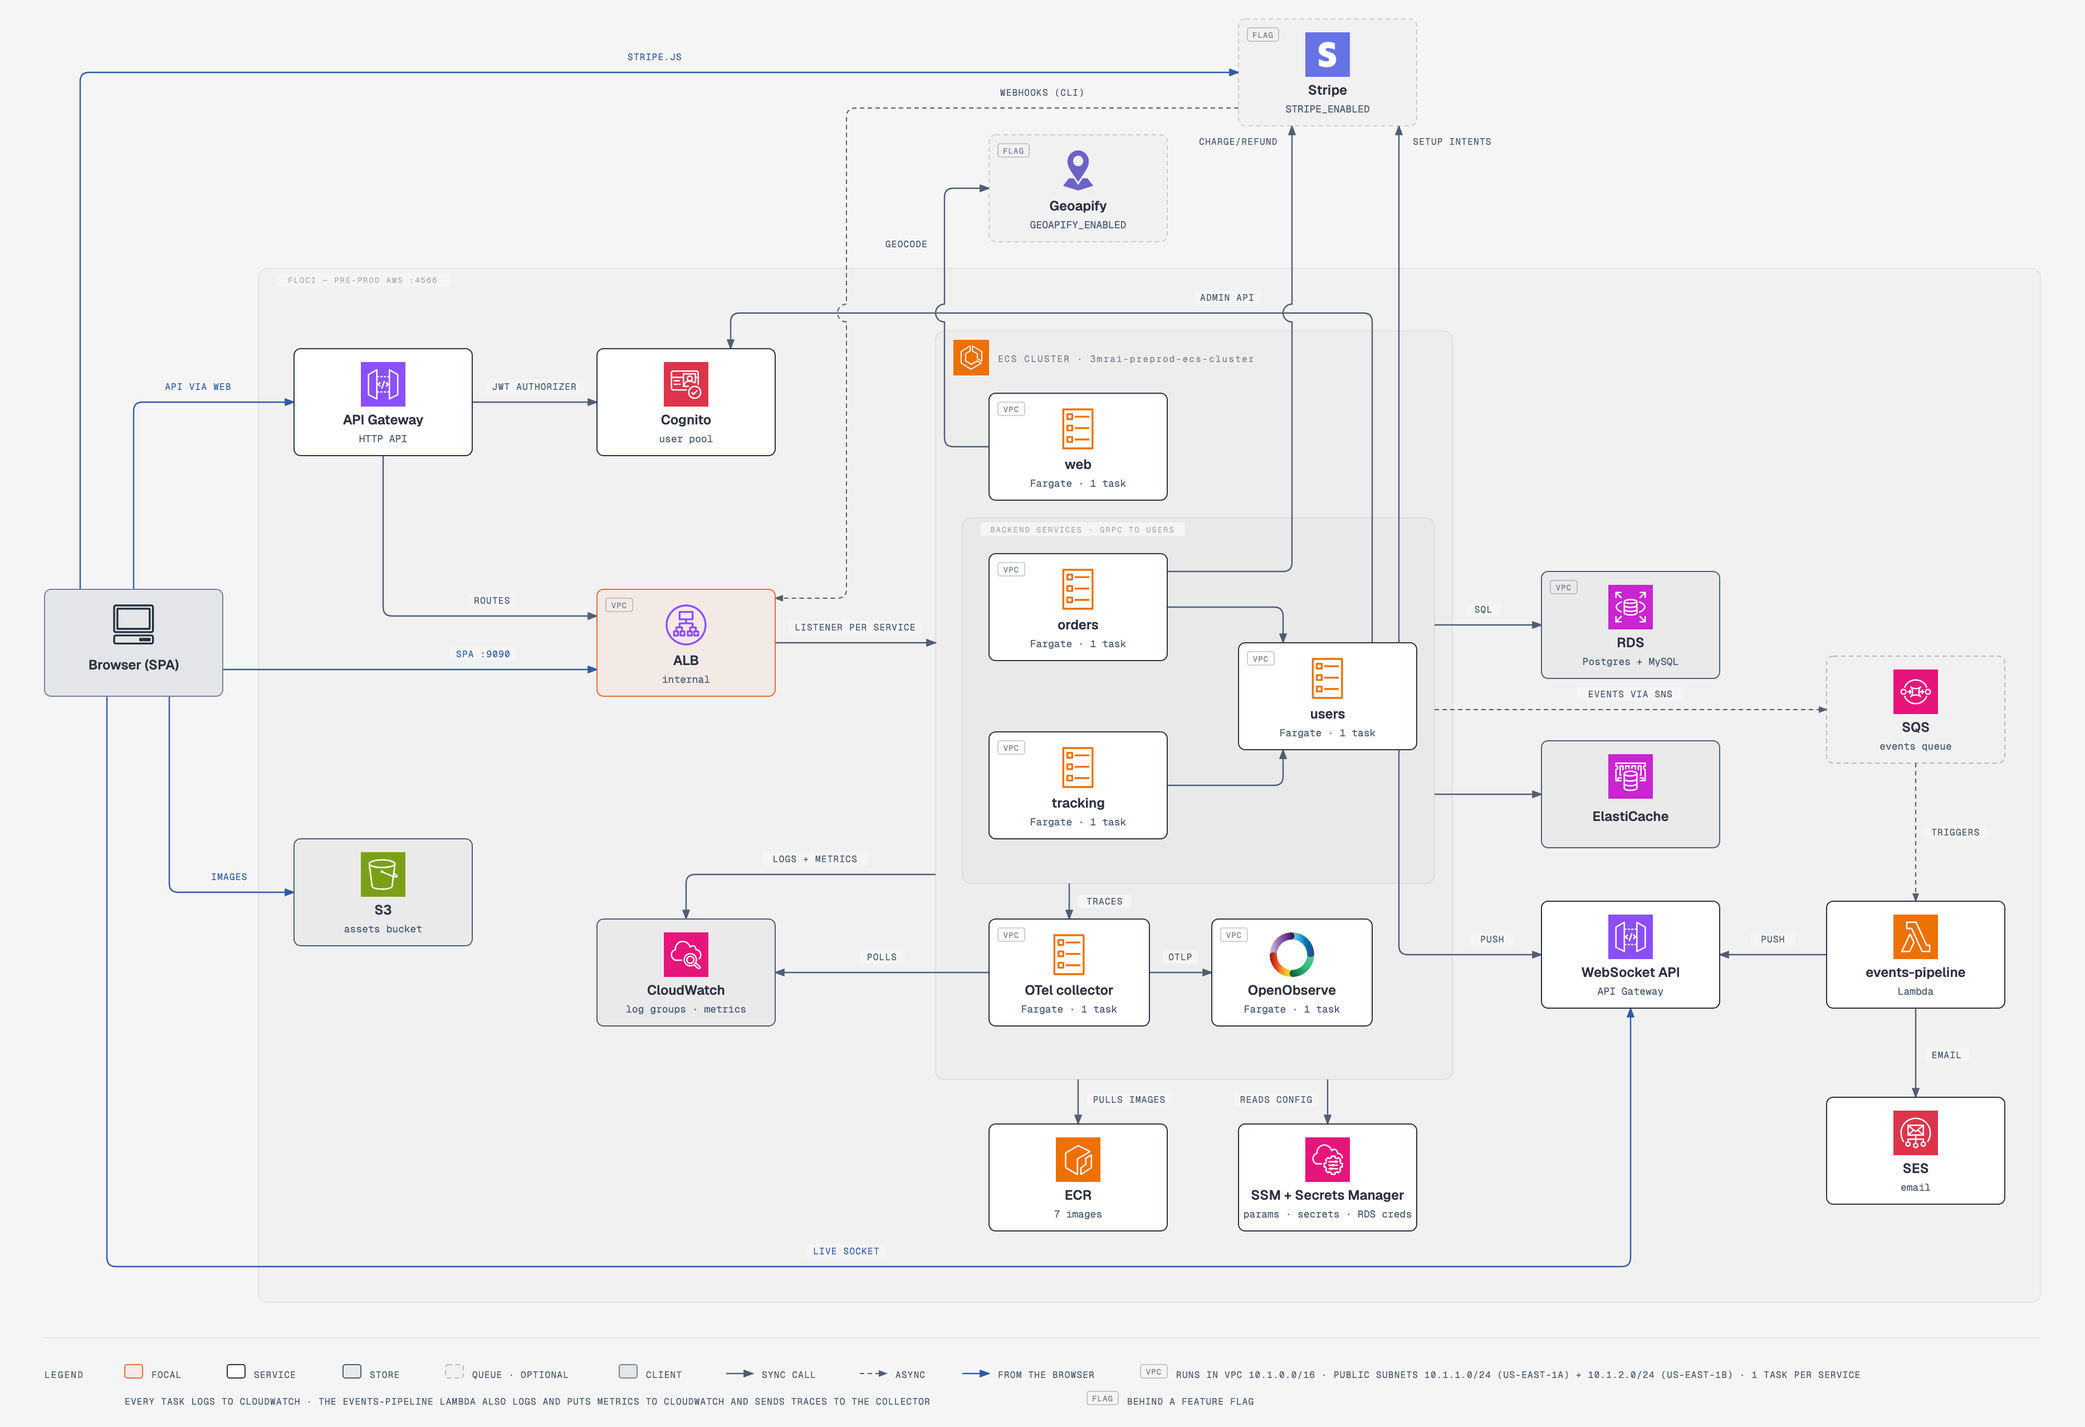
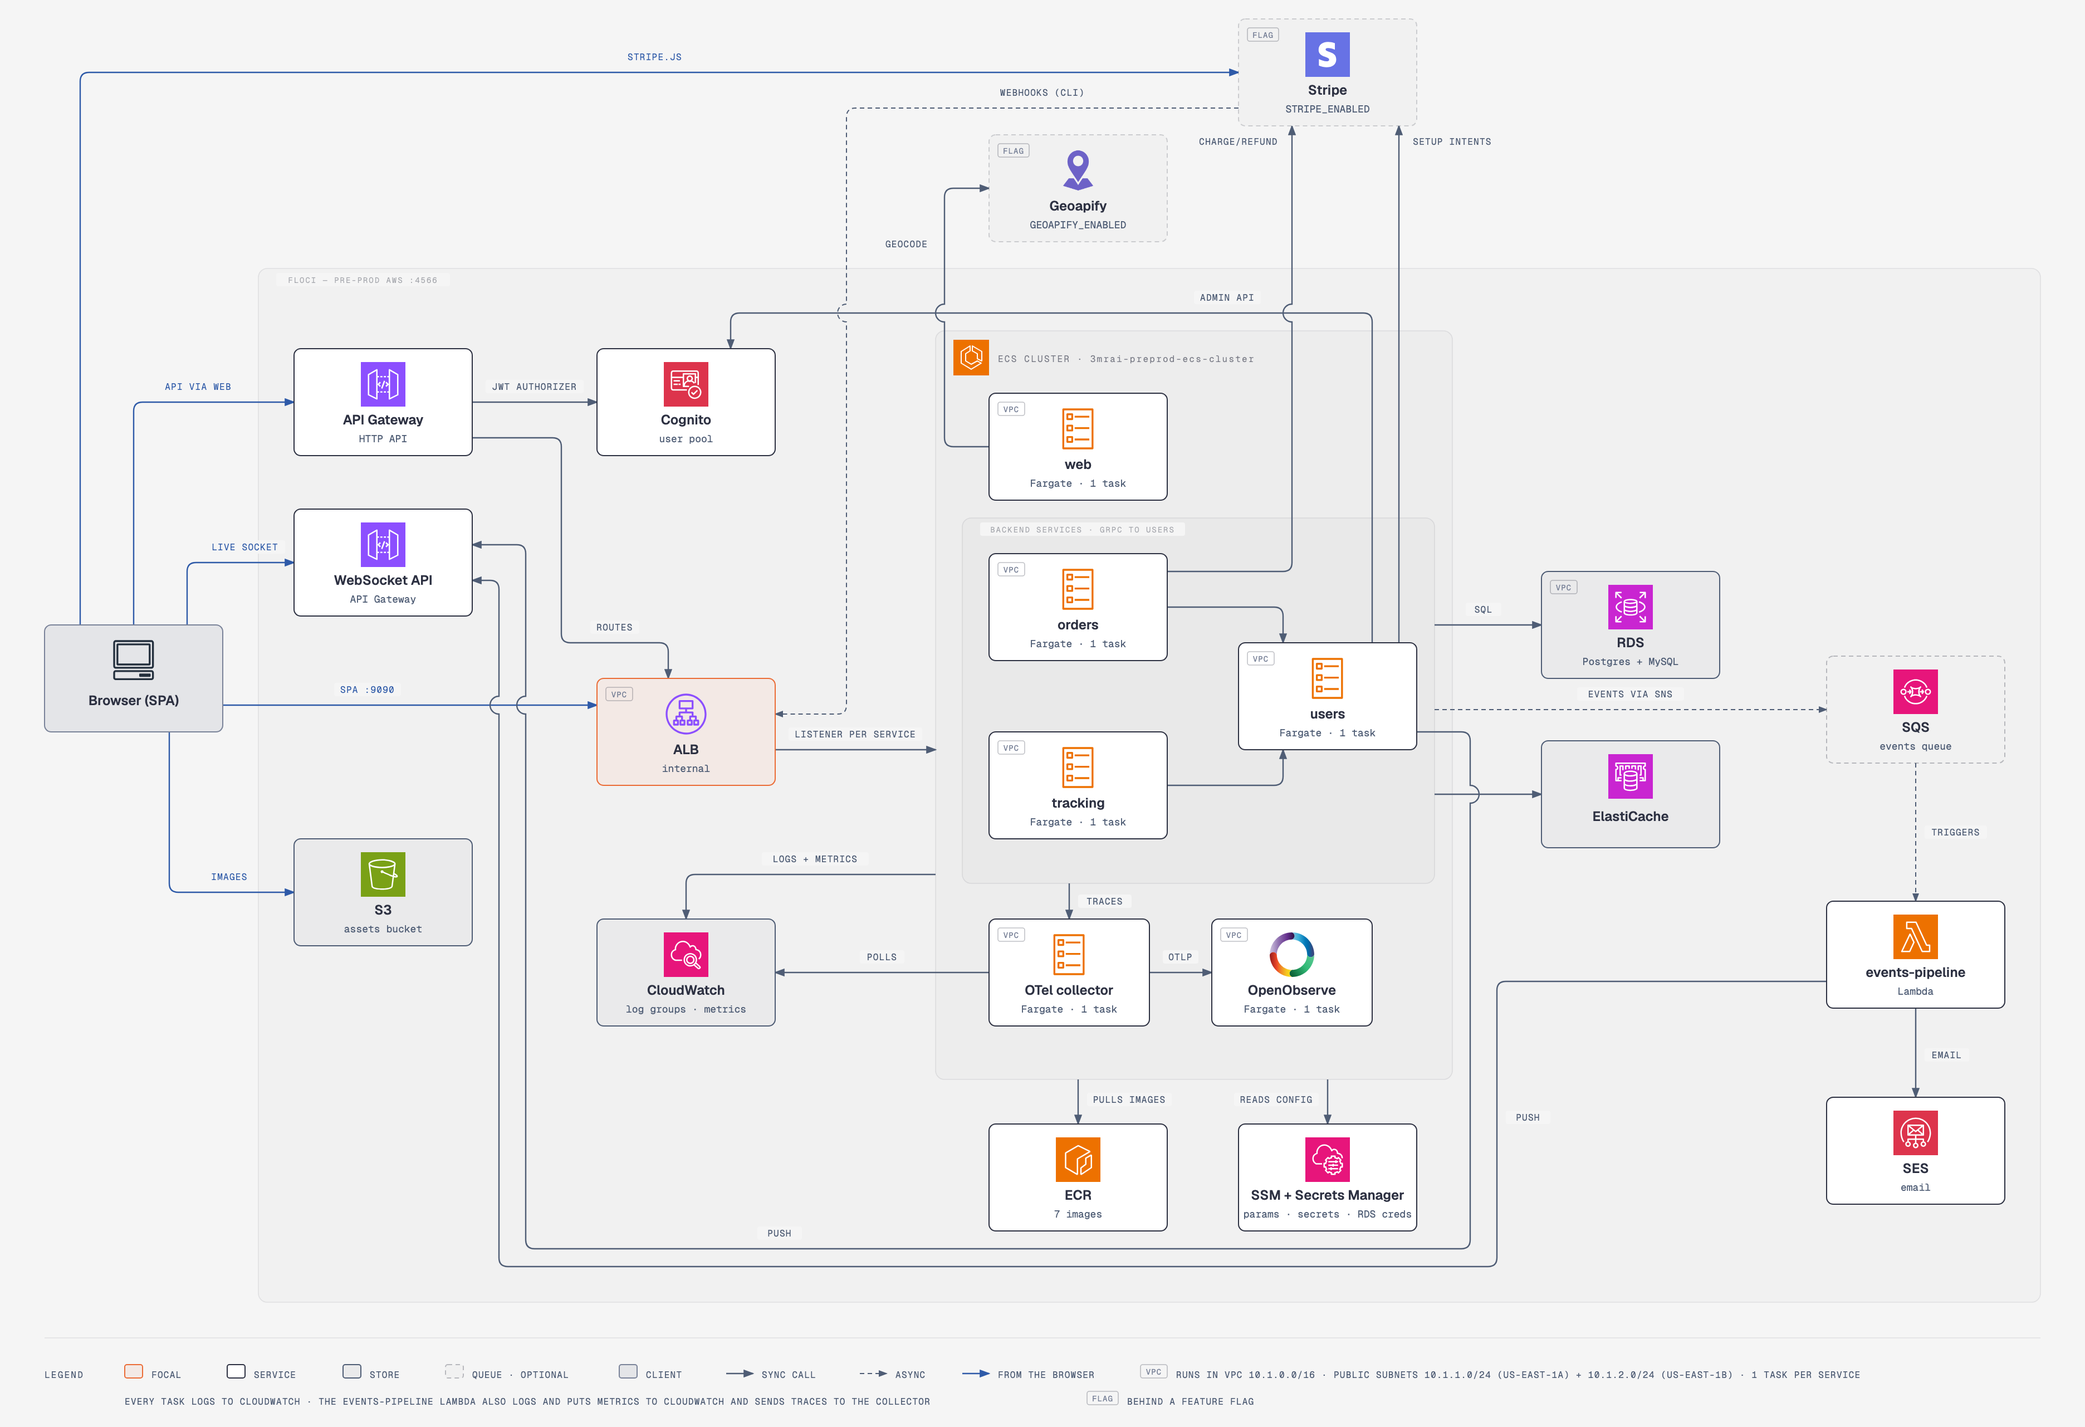
feat(diagrams): pair the WebSocket API with the HTTP API Gateway in the pre-prod view
Spec: docs/superpowers/specs/2026-10-13-diagram-design-migration-design.md

diff --git a/diagrams/src/architecture/architecture-preprod.html b/diagrams/src/architecture/architecture-preprod.html
@@ -85,12 +85,12 @@
       <rect x="880" y="468" width="184" height="12" rx="2" fill="#f5f5f5"/>
       <text x="972" y="477" fill="rgba(45,49,66,0.40)" font-size="7" font-family="'Geist Mono', monospace" text-anchor="middle" letter-spacing="0.14em">BACKEND SERVICES · GRPC TO USERS</text>
       <!-- Connectors (before nodes) -->
-      <path d="M 120,528 V 368 Q 120,360 128,360 H 264" fill="none" stroke="#2e5aa8" stroke-width="1.2" marker-end="url(#arrow-link)"/>
-      <path d="M 200,600 H 536" fill="none" stroke="#2e5aa8" stroke-width="1.2" marker-end="url(#arrow-link)"/>
-      <path d="M 152,624 V 792 Q 152,800 160,800 H 264" fill="none" stroke="#2e5aa8" stroke-width="1.2" marker-end="url(#arrow-link)"/>
+      <path d="M 120,560 V 368 Q 120,360 128,360 H 264" fill="none" stroke="#2e5aa8" stroke-width="1.2" marker-end="url(#arrow-link)"/>
+      <path d="M 200,632 H 536" fill="none" stroke="#2e5aa8" stroke-width="1.2" marker-end="url(#arrow-link)"/>
+      <path d="M 152,656 V 792 Q 152,800 160,800 H 264" fill="none" stroke="#2e5aa8" stroke-width="1.2" marker-end="url(#arrow-link)"/>
       <path d="M 424,360 H 536" fill="none" stroke="#4f5d75" stroke-width="1.2" marker-end="url(#arrow)"/>
-      <path d="M 344,408 V 544 Q 344,552 352,552 H 536" fill="none" stroke="#4f5d75" stroke-width="1.2" marker-end="url(#arrow)"/>
-      <path d="M 696,576 H 840" fill="none" stroke="#4f5d75" stroke-width="1.2" marker-end="url(#arrow)"/>
+      <path d="M 424,392 H 496 Q 504,392 504,400 V 568 Q 504,576 512,576 H 592 Q 600,576 600,584 V 608" fill="none" stroke="#4f5d75" stroke-width="1.2" marker-end="url(#arrow)"/>
+      <path d="M 696,672 H 840" fill="none" stroke="#4f5d75" stroke-width="1.2" marker-end="url(#arrow)"/>
       <path d="M 1048,544 H 1144 Q 1152,544 1152,552 V 576" fill="none" stroke="#4f5d75" stroke-width="1.2" marker-end="url(#arrow)"/>
       <path d="M 1048,704 H 1144 Q 1152,704 1152,696 V 672" fill="none" stroke="#4f5d75" stroke-width="1.2" marker-end="url(#arrow)"/>
       <path d="M 1232,576 V 288 Q 1232,280 1224,280 H 664 Q 656,280 656,288 V 312" fill="none" stroke="#4f5d75" stroke-width="1.2" marker-end="url(#arrow)"/>
@@ -98,34 +98,34 @@
       <path d="M 1288,712 H 1384" fill="none" stroke="#4f5d75" stroke-width="1.2" marker-end="url(#arrow)"/>
       <path d="M 968,968 V 1008" fill="none" stroke="#4f5d75" stroke-width="1.2" marker-end="url(#arrow)"/>
       <path d="M 1192,968 V 1008" fill="none" stroke="#4f5d75" stroke-width="1.2" marker-end="url(#arrow)"/>
-      <path d="M 96,624 V 1128 Q 96,1136 104,1136 H 1456 Q 1464,1136 1464,1128 V 904" fill="none" stroke="#2e5aa8" stroke-width="1.2" marker-end="url(#arrow-link)"/>
-      <path d="M 1256,672 V 848 Q 1256,856 1264,856 H 1384" fill="none" stroke="#4f5d75" stroke-width="1.2" marker-end="url(#arrow)"/>
+      <path d="M 168,560 V 512 Q 168,504 176,504 H 264" fill="none" stroke="#2e5aa8" stroke-width="1.2" marker-end="url(#arrow-link)"/>
+      <path d="M 1272,656 H 1312 Q 1320,656 1320,664 V 704 a 8,8 0 0,1 0,16 V 1112 Q 1320,1120 1312,1120 H 480 Q 472,1120 472,1112 V 640 a 8,8 0 0,1 0,-16 V 496 Q 472,488 464,488 H 424" fill="none" stroke="#4f5d75" stroke-width="1.2" marker-end="url(#arrow)"/>
       <path d="M 1288,636 H 1640" fill="none" stroke="#4f5d75" stroke-width="1" stroke-dasharray="4,3" marker-end="url(#arrow)"/>
       <path d="M 1720,684 V 808" fill="none" stroke="#4f5d75" stroke-width="1" stroke-dasharray="4,3" marker-end="url(#arrow)"/>
-      <path d="M 1640,856 H 1544" fill="none" stroke="#4f5d75" stroke-width="1.2" marker-end="url(#arrow)"/>
+      <path d="M 1640,880 H 1352 Q 1344,880 1344,888 V 1128 Q 1344,1136 1336,1136 H 456 Q 448,1136 448,1128 V 640 a 8,8 0 0,1 0,-16 V 528 Q 448,520 440,520 H 424" fill="none" stroke="#4f5d75" stroke-width="1.2" marker-end="url(#arrow)"/>
       <path d="M 1720,904 V 984" fill="none" stroke="#4f5d75" stroke-width="1.2" marker-end="url(#arrow)"/>
       <path d="M 840,784 H 624 Q 616,784 616,792 V 824" fill="none" stroke="#4f5d75" stroke-width="1.2" marker-end="url(#arrow)"/>
       <path d="M 888,872 H 696" fill="none" stroke="#4f5d75" stroke-width="1.2" marker-end="url(#arrow)"/>
       <path d="M 960,792 V 824" fill="none" stroke="#4f5d75" stroke-width="1.2" marker-end="url(#arrow)"/>
       <path d="M 1032,872 H 1088" fill="none" stroke="#4f5d75" stroke-width="1.2" marker-end="url(#arrow)"/>
-      <path d="M 72,528 V 72 Q 72,64 80,64 H 1112" fill="none" stroke="#2e5aa8" stroke-width="1.2" marker-end="url(#arrow-link)"/>
+      <path d="M 72,560 V 72 Q 72,64 80,64 H 1112" fill="none" stroke="#2e5aa8" stroke-width="1.2" marker-end="url(#arrow-link)"/>
       <path d="M 1256,576 V 112" fill="none" stroke="#4f5d75" stroke-width="1.2" marker-end="url(#arrow)"/>
       <path d="M 1048,512 H 1152 Q 1160,512 1160,504 V 288 a 8,8 0 0,1 0,-16 V 112" fill="none" stroke="#4f5d75" stroke-width="1.2" marker-end="url(#arrow)"/>
-      <path d="M 1112,96 H 768 Q 760,96 760,104 V 272 a 8,8 0 0,0 0,16 V 528 Q 760,536 752,536 H 696" fill="none" stroke="#4f5d75" stroke-width="1" stroke-dasharray="4,3" marker-end="url(#arrow)"/>
+      <path d="M 1112,96 H 768 Q 760,96 760,104 V 272 a 8,8 0 0,0 0,16 V 632 Q 760,640 752,640 H 696" fill="none" stroke="#4f5d75" stroke-width="1" stroke-dasharray="4,3" marker-end="url(#arrow)"/>
       <path d="M 888,400 H 856 Q 848,400 848,392 V 288 a 8,8 0 0,1 0,-16 V 176 Q 848,168 856,168 H 888" fill="none" stroke="#4f5d75" stroke-width="1.2" marker-end="url(#arrow)"/>
       <!-- Connector labels -->
       <rect x="144" y="340" width="68" height="12" rx="2" fill="#f5f5f5"/>
       <text x="178" y="349" fill="#2e5aa8" font-size="8" font-family="'Geist Mono', monospace" text-anchor="middle" letter-spacing="0.08em">API VIA WEB</text>
-      <rect x="404" y="580" width="60" height="12" rx="2" fill="#f5f5f5"/>
-      <text x="434" y="589" fill="#2e5aa8" font-size="8" font-family="'Geist Mono', monospace" text-anchor="middle" letter-spacing="0.08em">SPA :9090</text>
+      <rect x="300" y="612" width="60" height="12" rx="2" fill="#f5f5f5"/>
+      <text x="330" y="621" fill="#2e5aa8" font-size="8" font-family="'Geist Mono', monospace" text-anchor="middle" letter-spacing="0.08em">SPA :9090</text>
       <rect x="184" y="780" width="44" height="12" rx="2" fill="#f5f5f5"/>
       <text x="206" y="789" fill="#2e5aa8" font-size="8" font-family="'Geist Mono', monospace" text-anchor="middle" letter-spacing="0.08em">IMAGES</text>
       <rect x="436" y="340" width="88" height="12" rx="2" fill="#f5f5f5"/>
       <text x="480" y="349" fill="#4f5d75" font-size="8" font-family="'Geist Mono', monospace" text-anchor="middle" letter-spacing="0.08em">JWT AUTHORIZER</text>
-      <rect x="420" y="532" width="44" height="12" rx="2" fill="#f5f5f5"/>
-      <text x="442" y="541" fill="#4f5d75" font-size="8" font-family="'Geist Mono', monospace" text-anchor="middle" letter-spacing="0.08em">ROUTES</text>
-      <rect x="708" y="556" width="120" height="12" rx="2" fill="#f5f5f5"/>
-      <text x="768" y="565" fill="#4f5d75" font-size="8" font-family="'Geist Mono', monospace" text-anchor="middle" letter-spacing="0.08em">LISTENER PER SERVICE</text>
+      <rect x="530" y="556" width="44" height="12" rx="2" fill="#f5f5f5"/>
+      <text x="552" y="565" fill="#4f5d75" font-size="8" font-family="'Geist Mono', monospace" text-anchor="middle" letter-spacing="0.08em">ROUTES</text>
+      <rect x="708" y="652" width="120" height="12" rx="2" fill="#f5f5f5"/>
+      <text x="768" y="661" fill="#4f5d75" font-size="8" font-family="'Geist Mono', monospace" text-anchor="middle" letter-spacing="0.08em">LISTENER PER SERVICE</text>
       <rect x="1072" y="260" width="60" height="12" rx="2" fill="#f5f5f5"/>
       <text x="1102" y="269" fill="#4f5d75" font-size="8" font-family="'Geist Mono', monospace" text-anchor="middle" letter-spacing="0.08em">ADMIN API</text>
       <rect x="1316" y="540" width="32" height="12" rx="2" fill="#f5f5f5"/>
@@ -134,16 +134,16 @@
       <text x="1014" y="989" fill="#4f5d75" font-size="8" font-family="'Geist Mono', monospace" text-anchor="middle" letter-spacing="0.08em">PULLS IMAGES</text>
       <rect x="1108" y="980" width="76" height="12" rx="2" fill="#f5f5f5"/>
       <text x="1146" y="989" fill="#4f5d75" font-size="8" font-family="'Geist Mono', monospace" text-anchor="middle" letter-spacing="0.08em">READS CONFIG</text>
-      <rect x="724" y="1116" width="72" height="12" rx="2" fill="#f5f5f5"/>
-      <text x="760" y="1125" fill="#2e5aa8" font-size="8" font-family="'Geist Mono', monospace" text-anchor="middle" letter-spacing="0.08em">LIVE SOCKET</text>
-      <rect x="1320" y="836" width="40" height="12" rx="2" fill="#f5f5f5"/>
-      <text x="1340" y="845" fill="#4f5d75" font-size="8" font-family="'Geist Mono', monospace" text-anchor="middle" letter-spacing="0.08em">PUSH</text>
+      <rect x="184" y="484" width="72" height="12" rx="2" fill="#f5f5f5"/>
+      <text x="220" y="493" fill="#2e5aa8" font-size="8" font-family="'Geist Mono', monospace" text-anchor="middle" letter-spacing="0.08em">LIVE SOCKET</text>
+      <rect x="680" y="1100" width="40" height="12" rx="2" fill="#f5f5f5"/>
+      <text x="700" y="1109" fill="#4f5d75" font-size="8" font-family="'Geist Mono', monospace" text-anchor="middle" letter-spacing="0.08em">PUSH</text>
       <rect x="1416" y="616" width="96" height="12" rx="2" fill="#f5f5f5"/>
       <text x="1464" y="625" fill="#4f5d75" font-size="8" font-family="'Geist Mono', monospace" text-anchor="middle" letter-spacing="0.08em">EVENTS VIA SNS</text>
       <rect x="1728" y="740" width="56" height="12" rx="2" fill="#f5f5f5"/>
       <text x="1756" y="749" fill="#4f5d75" font-size="8" font-family="'Geist Mono', monospace" text-anchor="middle" letter-spacing="0.08em">TRIGGERS</text>
-      <rect x="1572" y="836" width="40" height="12" rx="2" fill="#f5f5f5"/>
-      <text x="1592" y="845" fill="#4f5d75" font-size="8" font-family="'Geist Mono', monospace" text-anchor="middle" letter-spacing="0.08em">PUSH</text>
+      <rect x="1352" y="996" width="40" height="12" rx="2" fill="#f5f5f5"/>
+      <text x="1372" y="1005" fill="#4f5d75" font-size="8" font-family="'Geist Mono', monospace" text-anchor="middle" letter-spacing="0.08em">PUSH</text>
       <rect x="1728" y="940" width="40" height="12" rx="2" fill="#f5f5f5"/>
       <text x="1748" y="949" fill="#4f5d75" font-size="8" font-family="'Geist Mono', monospace" text-anchor="middle" letter-spacing="0.08em">EMAIL</text>
       <rect x="684" y="764" width="96" height="12" rx="2" fill="#f5f5f5"/>
@@ -181,10 +181,10 @@
       <text x="968" y="188" fill="#2d3142" font-size="12" font-weight="600" font-family="'Geist', sans-serif" text-anchor="middle">Geoapify</text>
       <text x="968" y="204" fill="#4f5d75" font-size="9" font-family="'Geist Mono', monospace" text-anchor="middle">GEOAPIFY_ENABLED</text>
       <!-- Node: Browser (SPA) -->
-      <rect x="40" y="528" width="160" height="96" rx="6" fill="#f5f5f5"/>
-      <rect x="40" y="528" width="160" height="96" rx="6" fill="rgba(79,93,117,0.10)" stroke="#7a8399" stroke-width="1"/>
-      <image href="https://cdn.jsdelivr.net/npm/aws-icons@3.2.0/icons/resource/Client.svg" x="100" y="540" width="40" height="40"/>
-      <text x="120" y="600" fill="#2d3142" font-size="12" font-weight="600" font-family="'Geist', sans-serif" text-anchor="middle">Browser (SPA)</text>
+      <rect x="40" y="560" width="160" height="96" rx="6" fill="#f5f5f5"/>
+      <rect x="40" y="560" width="160" height="96" rx="6" fill="rgba(79,93,117,0.10)" stroke="#7a8399" stroke-width="1"/>
+      <image href="https://cdn.jsdelivr.net/npm/aws-icons@3.2.0/icons/resource/Client.svg" x="100" y="572" width="40" height="40"/>
+      <text x="120" y="632" fill="#2d3142" font-size="12" font-weight="600" font-family="'Geist', sans-serif" text-anchor="middle">Browser (SPA)</text>
       <!-- Node: API Gateway -->
       <rect x="264" y="312" width="160" height="96" rx="6" fill="#f5f5f5"/>
       <rect x="264" y="312" width="160" height="96" rx="6" fill="#ffffff" stroke="#2d3142" stroke-width="1"/>
@@ -204,13 +204,13 @@
       <text x="616" y="380" fill="#2d3142" font-size="12" font-weight="600" font-family="'Geist', sans-serif" text-anchor="middle">Cognito</text>
       <text x="616" y="396" fill="#4f5d75" font-size="9" font-family="'Geist Mono', monospace" text-anchor="middle">user pool</text>
       <!-- Node: ALB -->
-      <rect x="536" y="528" width="160" height="96" rx="6" fill="#f5f5f5"/>
-      <rect x="536" y="528" width="160" height="96" rx="6" fill="rgba(235,108,54,0.08)" stroke="#eb6c36" stroke-width="1"/>
-      <rect x="544" y="536" width="24" height="12" rx="2" fill="transparent" stroke="rgba(45,49,66,0.30)" stroke-width="0.8"/>
-      <text x="556" y="545" fill="#7a8399" font-size="7" font-family="'Geist Mono', monospace" text-anchor="middle" letter-spacing="0.08em">VPC</text>
-      <image href="https://cdn.jsdelivr.net/npm/aws-icons@3.2.0/icons/resource/ElasticLoadBalancingApplicationLoadBalancer.svg" x="596" y="540" width="40" height="40"/>
-      <text x="616" y="596" fill="#2d3142" font-size="12" font-weight="600" font-family="'Geist', sans-serif" text-anchor="middle">ALB</text>
-      <text x="616" y="612" fill="#4f5d75" font-size="9" font-family="'Geist Mono', monospace" text-anchor="middle">internal</text>
+      <rect x="536" y="608" width="160" height="96" rx="6" fill="#f5f5f5"/>
+      <rect x="536" y="608" width="160" height="96" rx="6" fill="rgba(235,108,54,0.08)" stroke="#eb6c36" stroke-width="1"/>
+      <rect x="544" y="616" width="24" height="12" rx="2" fill="transparent" stroke="rgba(45,49,66,0.30)" stroke-width="0.8"/>
+      <text x="556" y="625" fill="#7a8399" font-size="7" font-family="'Geist Mono', monospace" text-anchor="middle" letter-spacing="0.08em">VPC</text>
+      <image href="https://cdn.jsdelivr.net/npm/aws-icons@3.2.0/icons/resource/ElasticLoadBalancingApplicationLoadBalancer.svg" x="596" y="620" width="40" height="40"/>
+      <text x="616" y="676" fill="#2d3142" font-size="12" font-weight="600" font-family="'Geist', sans-serif" text-anchor="middle">ALB</text>
+      <text x="616" y="692" fill="#4f5d75" font-size="9" font-family="'Geist Mono', monospace" text-anchor="middle">internal</text>
       <!-- Node: web -->
       <rect x="888" y="352" width="160" height="96" rx="6" fill="#f5f5f5"/>
       <rect x="888" y="352" width="160" height="96" rx="6" fill="#ffffff" stroke="#2d3142" stroke-width="1"/>
@@ -291,11 +291,11 @@
       <text x="1160" y="892" fill="#2d3142" font-size="12" font-weight="600" font-family="'Geist', sans-serif" text-anchor="middle">OpenObserve</text>
       <text x="1160" y="908" fill="#4f5d75" font-size="9" font-family="'Geist Mono', monospace" text-anchor="middle">Fargate · 1 task</text>
       <!-- Node: WebSocket API -->
-      <rect x="1384" y="808" width="160" height="96" rx="6" fill="#f5f5f5"/>
-      <rect x="1384" y="808" width="160" height="96" rx="6" fill="#ffffff" stroke="#2d3142" stroke-width="1"/>
-      <image href="https://cdn.jsdelivr.net/npm/aws-icons@3.2.0/icons/architecture-service/AmazonAPIGateway.svg" x="1444" y="820" width="40" height="40"/>
-      <text x="1464" y="876" fill="#2d3142" font-size="12" font-weight="600" font-family="'Geist', sans-serif" text-anchor="middle">WebSocket API</text>
-      <text x="1464" y="892" fill="#4f5d75" font-size="9" font-family="'Geist Mono', monospace" text-anchor="middle">API Gateway</text>
+      <rect x="264" y="456" width="160" height="96" rx="6" fill="#f5f5f5"/>
+      <rect x="264" y="456" width="160" height="96" rx="6" fill="#ffffff" stroke="#2d3142" stroke-width="1"/>
+      <image href="https://cdn.jsdelivr.net/npm/aws-icons@3.2.0/icons/architecture-service/AmazonAPIGateway.svg" x="324" y="468" width="40" height="40"/>
+      <text x="344" y="524" fill="#2d3142" font-size="12" font-weight="600" font-family="'Geist', sans-serif" text-anchor="middle">WebSocket API</text>
+      <text x="344" y="540" fill="#4f5d75" font-size="9" font-family="'Geist Mono', monospace" text-anchor="middle">API Gateway</text>
       <!-- Node: SQS -->
       <rect x="1640" y="588" width="160" height="96" rx="6" fill="#f5f5f5"/>
       <rect x="1640" y="588" width="160" height="96" rx="6" fill="rgba(45,49,66,0.02)" stroke="rgba(45,49,66,0.30)" stroke-width="1" stroke-dasharray="4,3"/>
